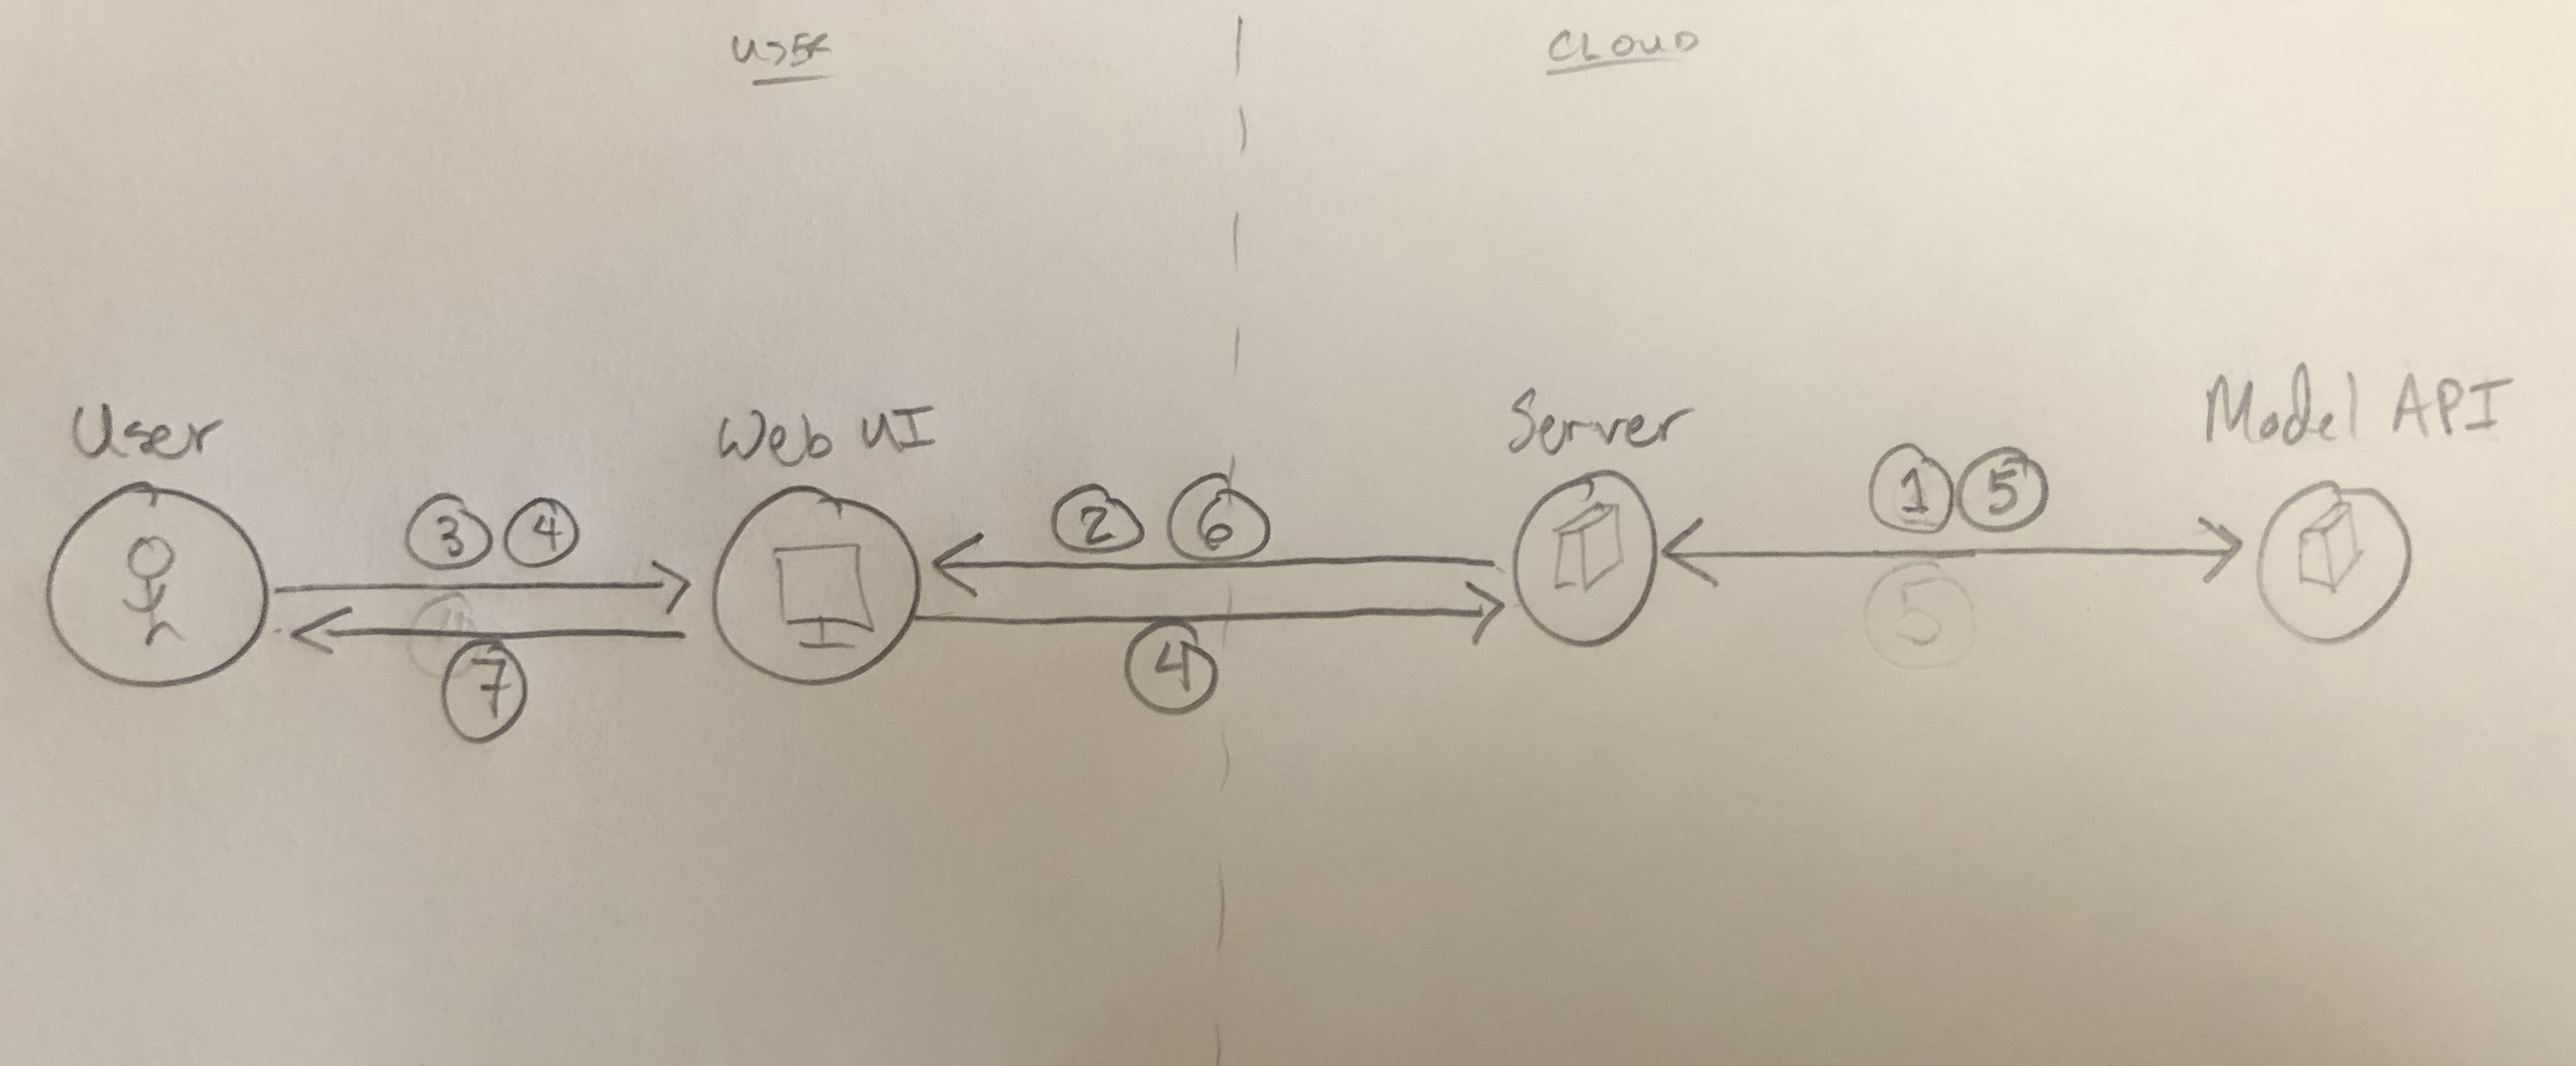
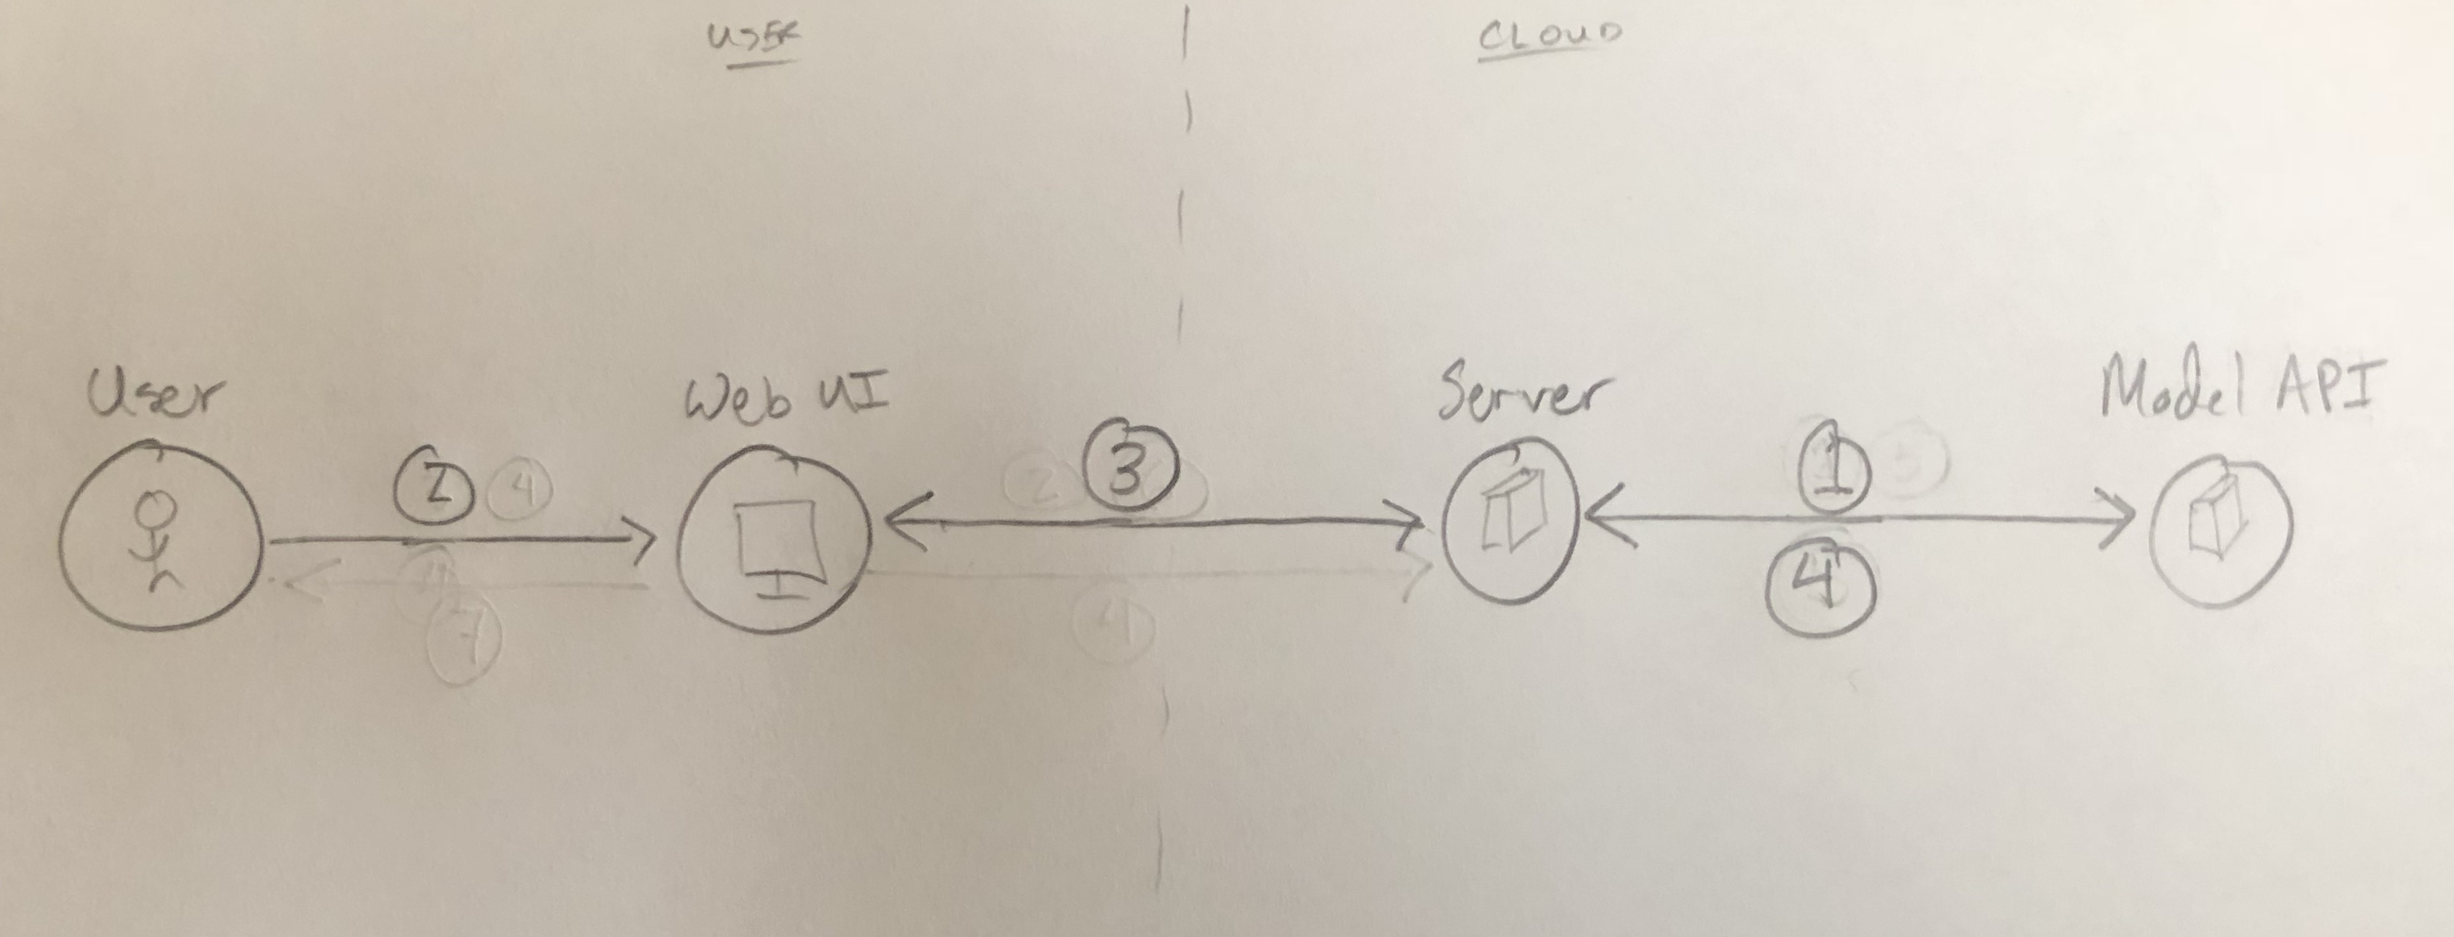
Address comments: shorter flow and updated image

diff --git a/README.md b/README.md
@@ -30,13 +30,10 @@ When the reader has completed this Code Pattern, they will understand how to:
 
 ## Flow
 
-1. Server initializes by sending default images to Model API and receiving caption data.
-2. Server starts Web UI with default images and caption data.
-3. User interacts with Web UI containing default images and caption data.
-4. User uploads image(s) to the Server via Web UI.
-5. Server sends image(s) to Model API and receives caption data.
-6. Server returns new caption data to Web UI.
-7. Web UI displays the new image(s) and caption data.
+1. Server sends default images to Model API and receives caption data.
+2. User interacts with Web UI containing default content and uploads image(s).
+3. Web UI requests caption data for image(s) from Server and updates content with returned data.
+4. Server sends image(s) to Model API and receives caption data to return to Web UI.
 
 <!-- TODO: Make sure Components, Technologies, Links, and Learn More bullets are in the correct sections -->
 
